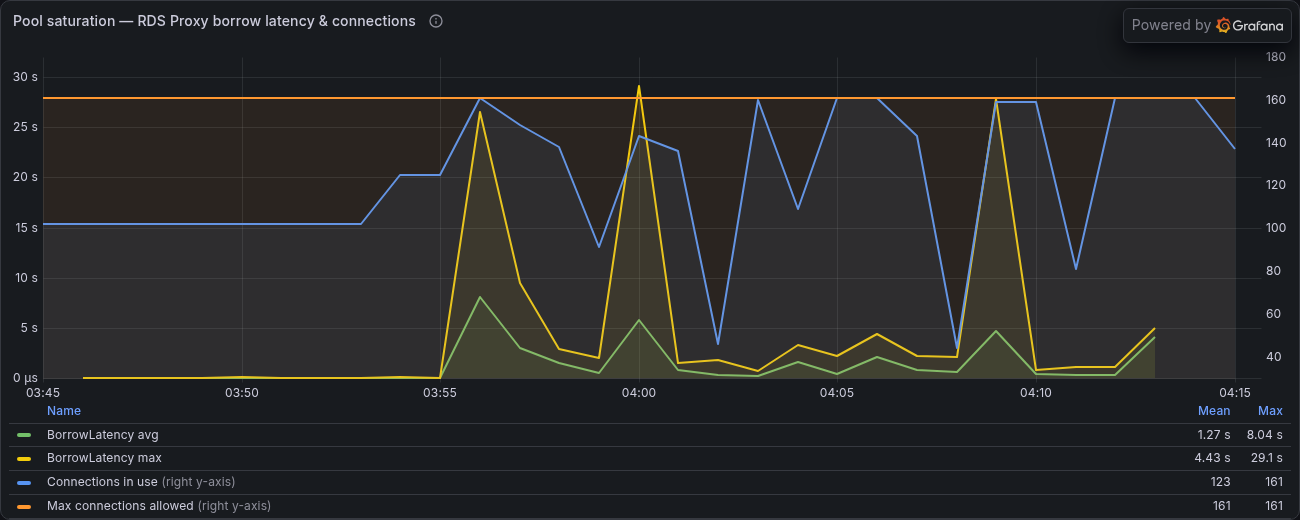
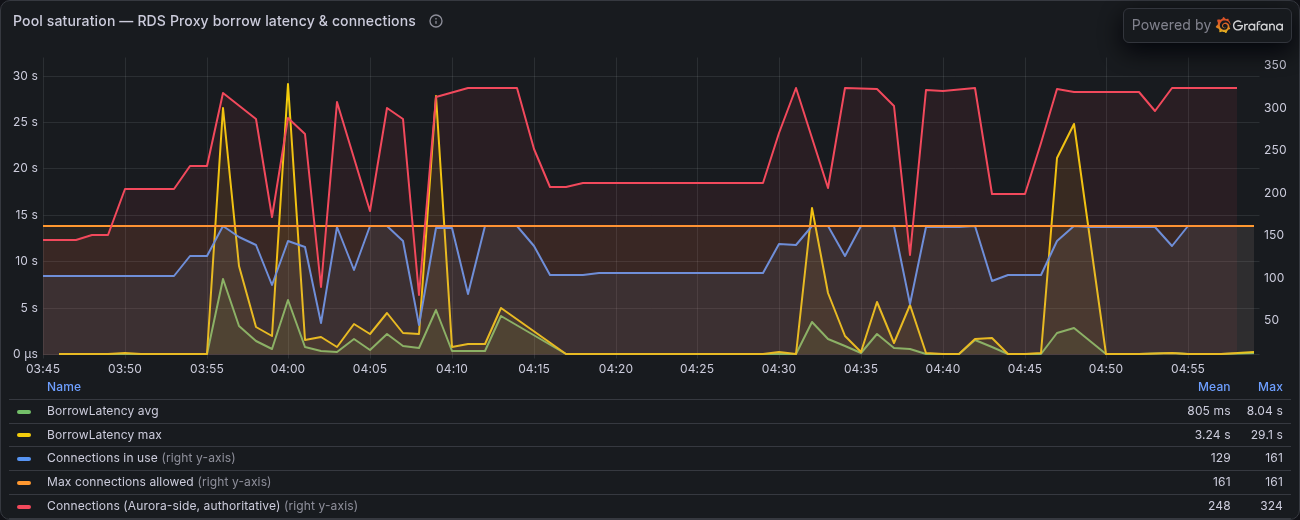
Fix the connection instrument: proxy-scoped metric undercounts by 2x
Caught by reading the assembled dashboard across the full session rather
than the per-stage tables. DBLoad peaked at 312 active sessions while the
connection panel showed a maximum of 161. Those cannot both be right --
312 active sessions cannot exist across 161 connections.

DatabaseConnections is published under two dimension sets that disagree:

  DatabaseConnections {ProxyName}             161   <- what the panel plotted
  DatabaseConnections {DBInstanceIdentifier}  324   <- what Aurora saw
  MaxDatabaseConnectionsAllowed {ProxyName}   161
  DBLoad {DBInstanceIdentifier}               312

DBLoad corroborates the Aurora-side count: 312 sessions across 324
connections is coherent, 312 across 161 is impossible. So
MaxDatabaseConnectionsAllowed = 161 is a per-scope RDS Proxy limit, NOT the
database's connection ceiling, and the proxy series understates real
connections by roughly half.

This does not change the causal conclusion -- the collapse still begins far
from any connection limit, and DBLoad 312 against a 1-vCPU instance is an
even more extreme oversubscription than the per-stage averages implied. It
does retire the number 161 as a ceiling, and with it any reading of
"connections reached the allowance" as evidence of exhaustion.

The transferable lesson is sharper than the fix. LRA-05 already warned the
connection count is blind; this is the same trap one level deeper -- the
count was not merely blind, it was scoped to the wrong entity. A metric name
[…]

diff --git a/README.md b/README.md
@@ -58,7 +58,7 @@ Each claim has a stable identifier (`LRA-NN`) so it can be cited directly. Follo
 >
 > **The connection-count evidence may not measure database work.** HikariCP is configured `minimum-idle=2` per container, so roughly 74 warm containers produce ~148 idle connections **at Spring startup, without a single request touching the database**. The original exhibit's "≈148 connections" may therefore be counting containers × pool minimum rather than load.
 >
-> **Exhaustion is real but arrives late.** `MaxDatabaseConnectionsAllowed` held 161; connections reached it — but only at 750–1000 VUs, *after* goodput had already collapsed from 1,152 req/s to 28 req/s while connections sat at 80–89% utilized. The binding constraint at the knee is database CPU (`DBLoad` 48 against a 1-vCPU instance), not connection count. The distinction is not pedantic: a pool ceiling is a queue (latency rises, throughput holds) while congestive collapse is not (throughput falls), and enlarging the pool helps the first while actively worsening the second.
+> **Exhaustion is real but arrives late — and the ceiling figure was wrong.** `DatabaseConnections` is published under two dimension sets that disagree by ~2×: the proxy-scoped series peaked at **161** (its own per-scope limit) while Aurora's own count peaked at **324**, and `DBLoad` of 312 active sessions corroborates the Aurora figure. Reading the proxy series alone understates connections by half. Either way the ordering holds: goodput collapsed from 1,152 req/s to 28 req/s well before any connection limit bound. The binding constraint at the knee is database CPU (`DBLoad` 48 against a 1-vCPU instance), not connection count. The distinction is not pedantic: a pool ceiling is a queue (latency rises, throughput holds) while congestive collapse is not (throughput falls), and enlarging the pool helps the first while actively worsening the second.
 >
 > ![Pool saturation under the staircase ramp — MaxDatabaseConnectionsAllowed flat at 161, connections in use climbing toward it, and BorrowLatency spiking to 27.7 s before the connection line is reached](assets/grafana/phase0-goodput-collapse.png)
 >
